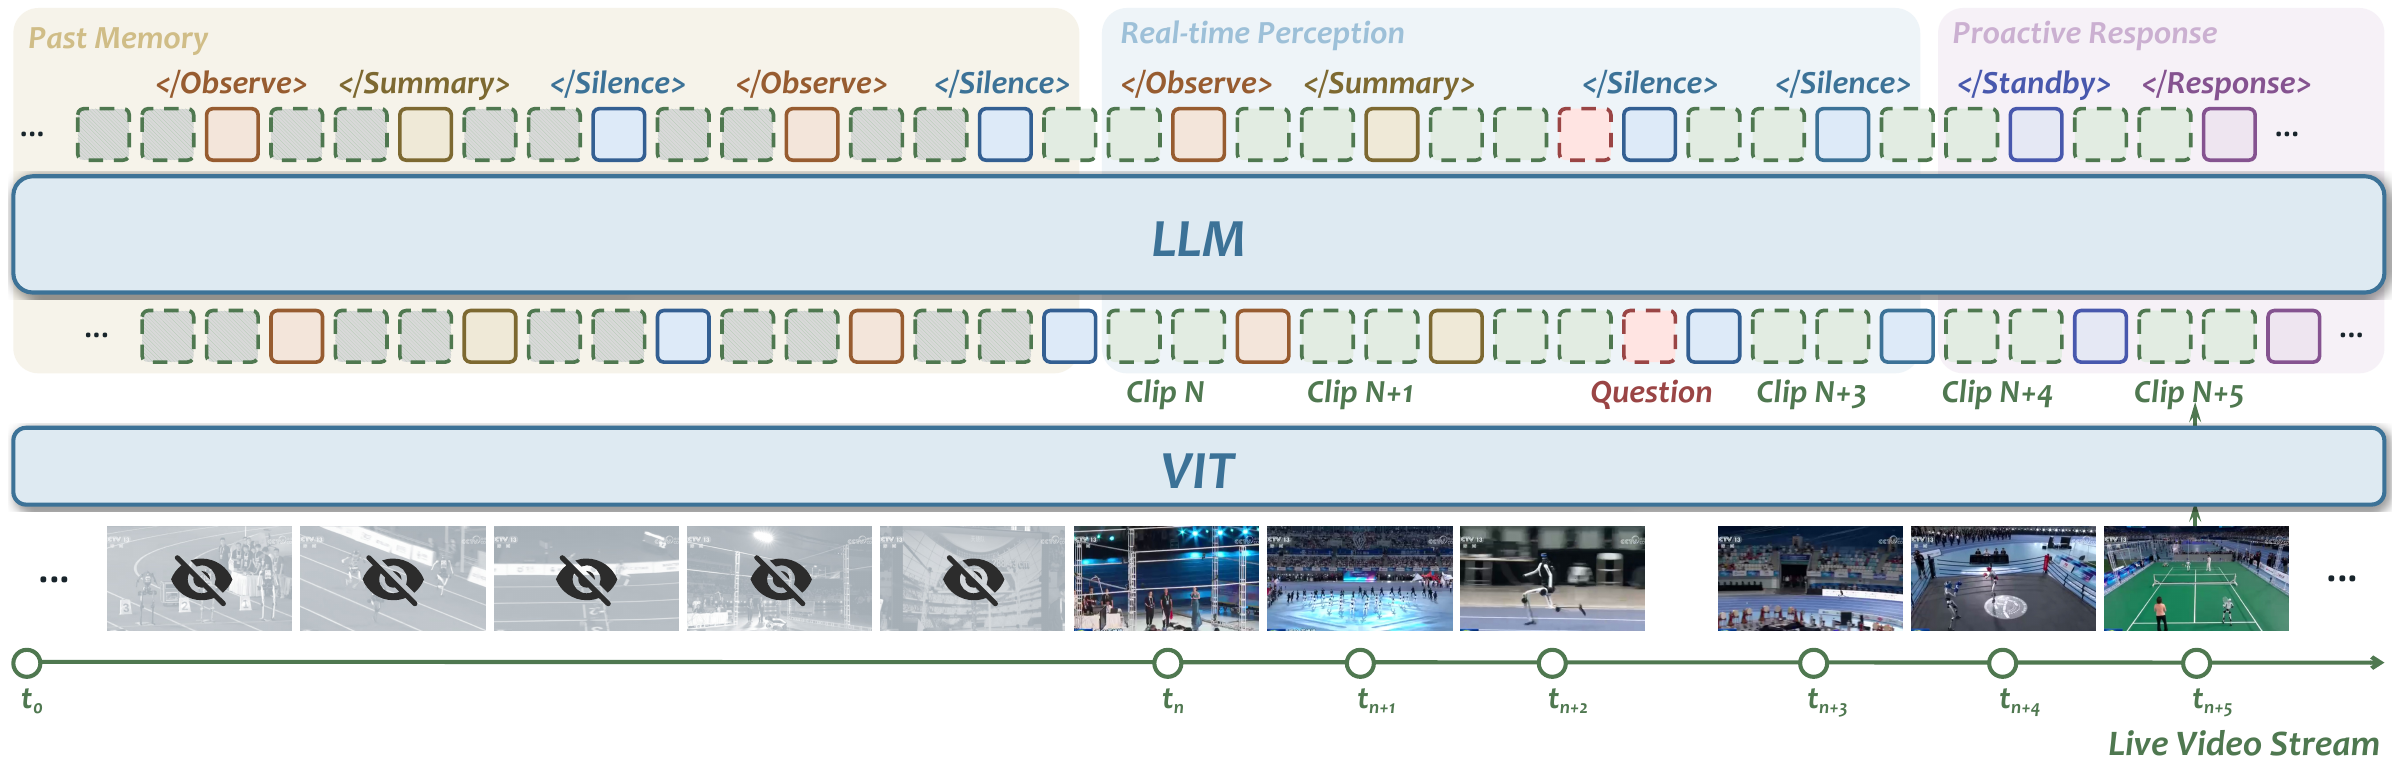
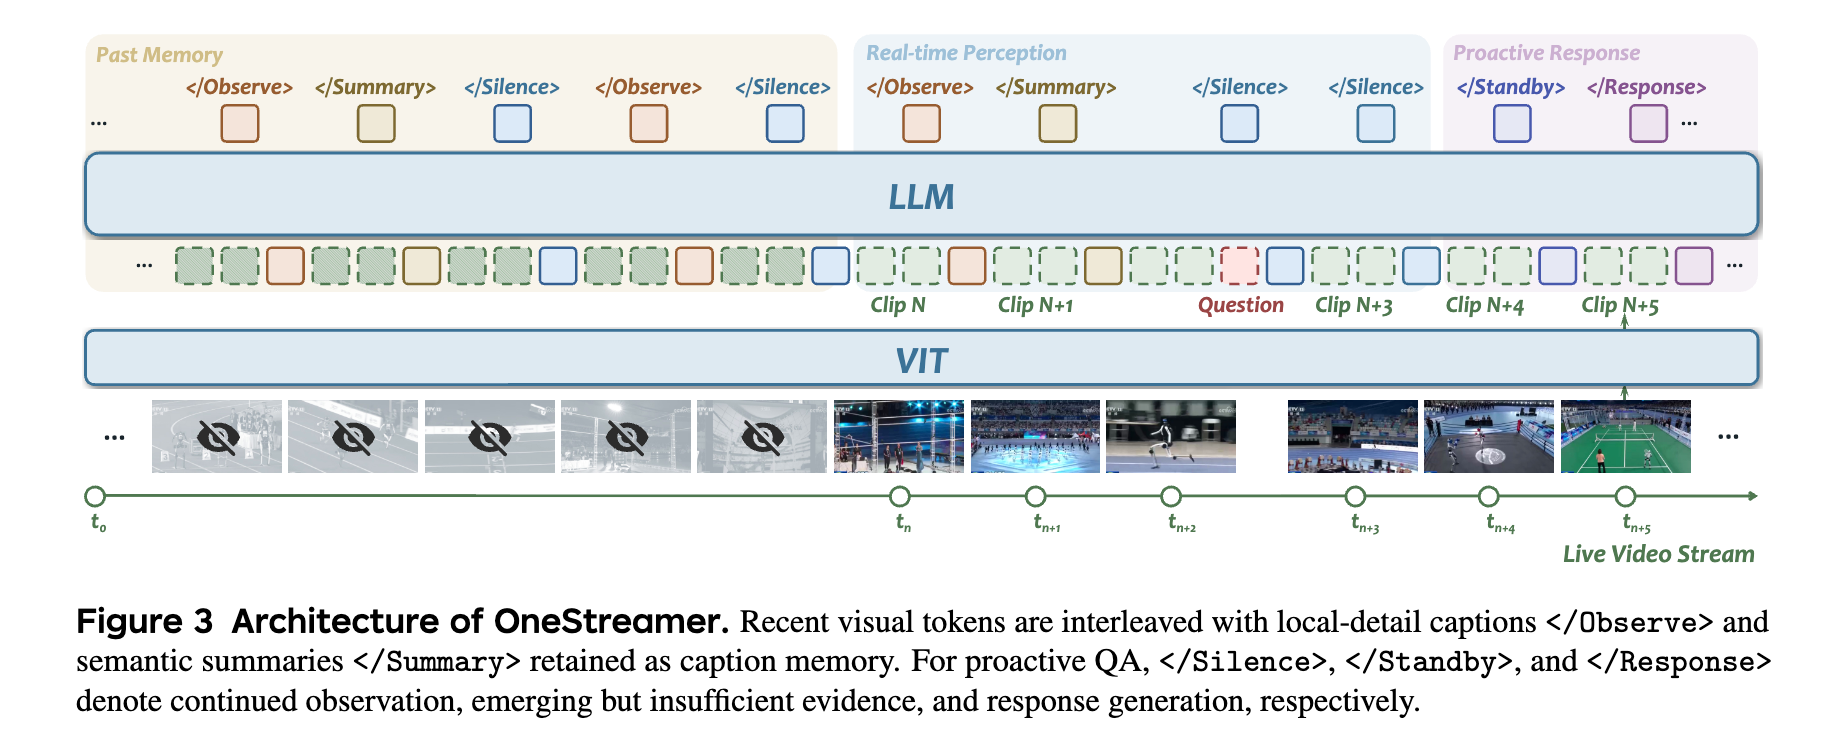
Update Method figure, paper citation, and project links

diff --git a/README.md b/README.md
@@ -19,9 +19,13 @@
 
 <p align="center">
   
-  <img src="https://img.shields.io/badge/Paper-coming_soon-b31b1b" alt="Paper: coming soon">
+  <a href="https://arxiv.org/pdf/2610.01762">
+    <img src="https://img.shields.io/badge/arXiv-2610.01762-b31b1b" alt="Paper: arXiv 2610.01762">
+  </a>
   
-  <img src="https://img.shields.io/badge/Project_Page-coming_soon-777777" alt="Project page: coming soon">
+  <a href="https://mcg-nju.github.io/OneStreamer/">
+    <img src="https://img.shields.io/badge/Project_Page-OneStreamer-777777" alt="OneStreamer project page">
+  </a>
   <a href="https://huggingface.co/MCG-NJU/OneStreamer-4B">
     <img src="https://img.shields.io/badge/Model-OneStreamer--4B-4b8bb5" alt="OneStreamer-4B model">
   </a>
@@ -199,9 +203,13 @@ We thank the authors of [Qwen3-VL](https://github.com/QwenLM/Qwen3-VL), [VLMEval
 
 
 ```bibtex
-@misc{zeng2026onestreamer,
+@misc{zeng2026onestreamerunifyingperceptionmemory,
   title={OneStreamer: Unifying Perception, Memory, and Proactive Response in Streaming Video Interaction},
-  author={Xiangyu Zeng and Yuandong Yang and Zhiqiu Zhang and Yuhan Zhu and Xinhao Li and Qingyi Si and Changlian Ma and Yansong Shi and Haoran Chen and Xinyu Chen and Dingyu Yao and Junhao Zhou and Yifei Li and Jun Zhang and Chuanyu Qin and Chenxu Yang and Xinlei Yu and Kun Ouyang and Yuchen Shao and Changhai Zhou and Jun Gao and Jiaqi Wang and Limin Wang},
-  year={2026}
+  author={Xiangyu Zeng and Yuandong Yang and Zhiqiu Zhang and Yuhan Zhu and Xinhao Li and Qingyi Si and Dingyu Yao and Changlian Ma and Haoran Chen and Xinyu Chen and Yansong Shi and Junhao Zhou and Yifei Li and Jun Zhang and Chuanyu Qin and Chenxu Yang and Xinlei Yu and Kun Ouyang and Yuchen Shao and Qianshan Wei and Changhai Zhou and Jun Gao and Jiaqi Wang and Limin Wang},
+  year={2026},
+  eprint={2610.01762},
+  archivePrefix={arXiv},
+  primaryClass={cs.CV},
+  url={https://arxiv.org/abs/2610.01762}
 }
 ```
